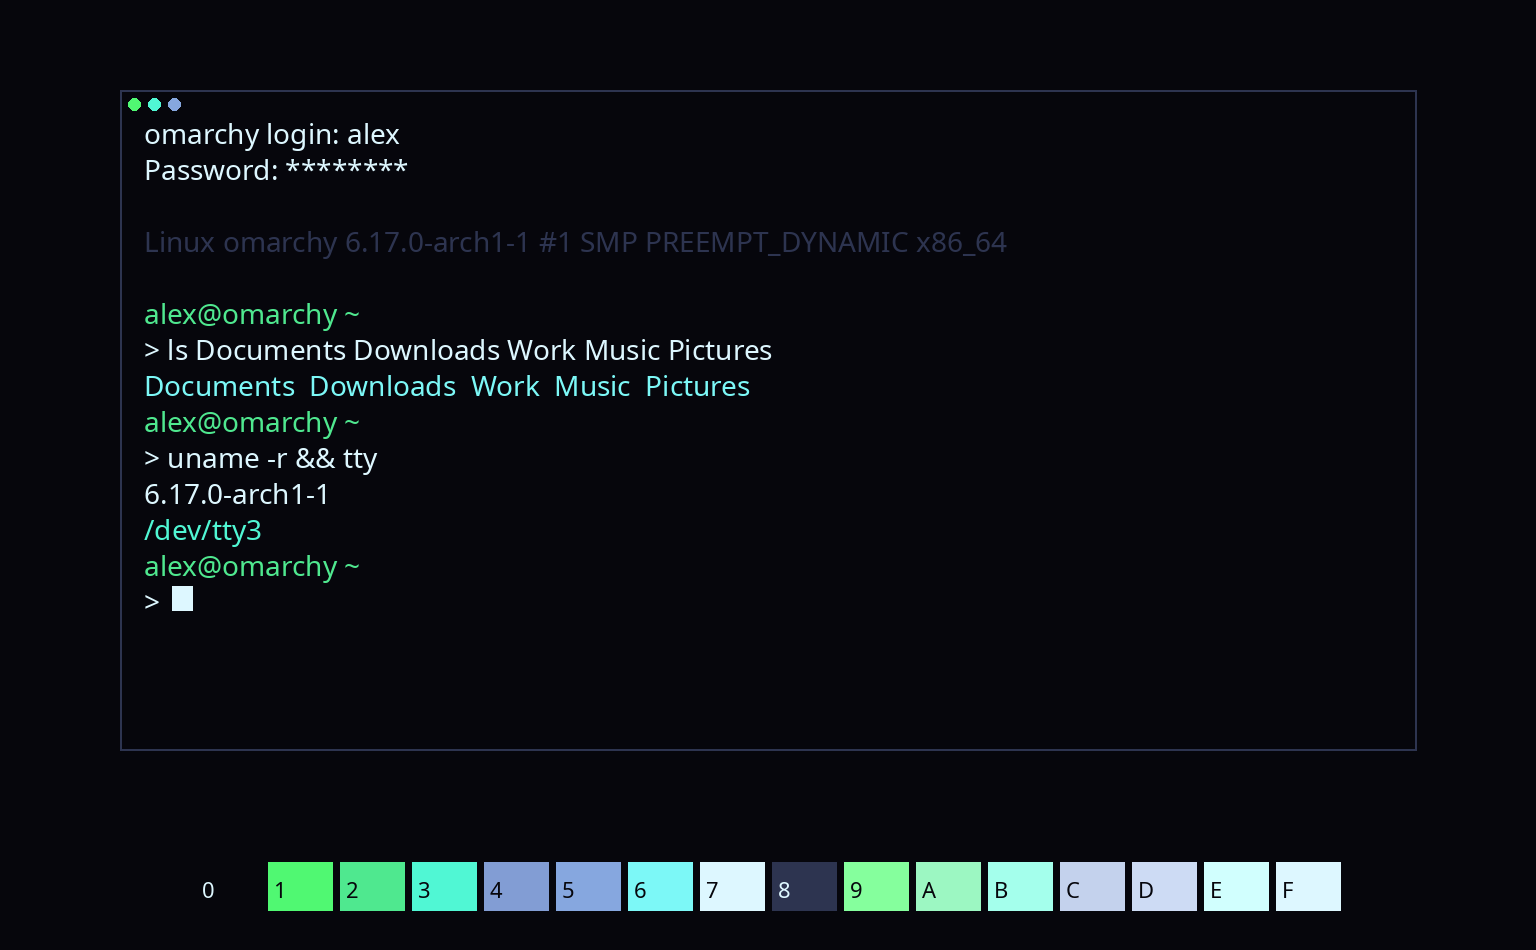
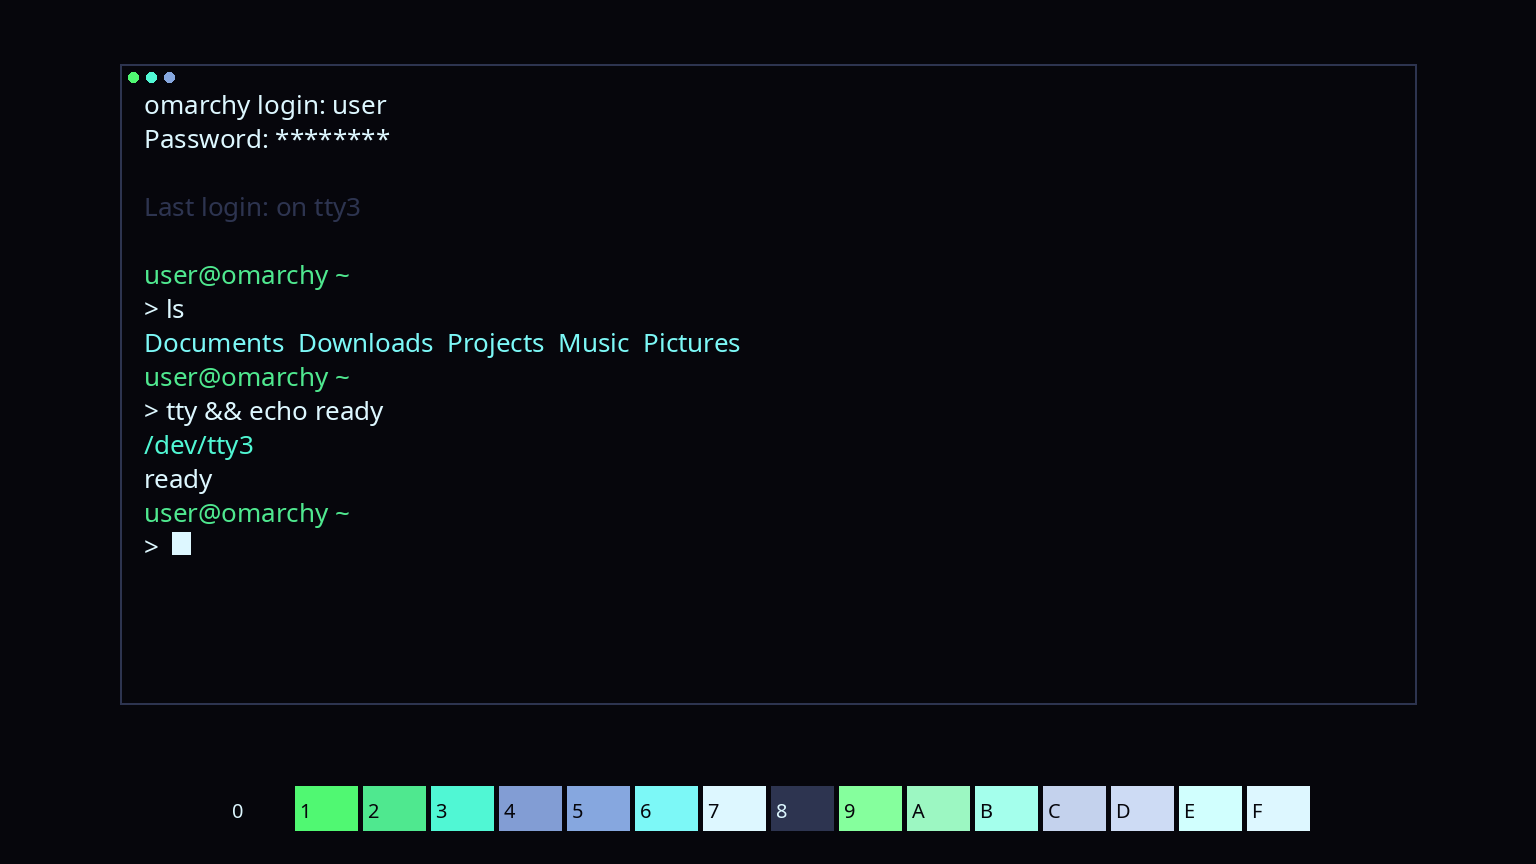
Fix carousel crop against menu-images thumbnails; generic VT session text.
Render 1536×864 (vipsthumbnail target) with ~8% side inset, bust stale
thumbs, and drop real usernames / kernel strings from mockups.

diff --git a/lib/omavt.py b/lib/omavt.py
@@ -507,9 +507,13 @@ def rebuild_limine() -> None:
         raise RuntimeError(f"limine-update failed: {err}")
 
 
-# Style carousel selected tile is 768×475 (~1.62). Render at 2× so
-# PreserveAspectCrop does not shave left/right the way 16:9 sources do.
-MOCKUP_SIZE = (1536, 950)
+# omarchy-menu-images thumbnails every source to 1536×864 (16:9) with
+# smartcrop BEFORE the Style carousel shows it in a 768×475 tile. Matching
+# that size avoids a second crop; keep content inside ~8% side margins so
+# PreserveAspectCrop on the tile does not shave the subject.
+MOCKUP_SIZE = (1536, 864)
+# Horizontal inset that survives 16:9 → ~1.62 tile crop (plus a little slack).
+SAFE_X = 120
 
 
 def try_font(size: int) -> ImageFont.ImageFont:
@@ -536,12 +540,11 @@ def render_mockup(
 ) -> Path:
     """Fake /dev/tty session wearing the theme (or VGA default) palette.
 
-    Centered composition for the Style carousel — no edge chrome, no Plymouth
-    unlock assets. Theme name lives in the picker label, not the image.
+    Generic prompts only — no real username, home paths, or kernel strings.
+    Theme name lives in the picker label, not the image.
     """
     w, h = size
     ansi: list[tuple[int, int, int]] = palette["ansi"]
-    # Colour 0 is the console background under vt.color=0x07.
     bg = rgb_to_hex(ansi[0])
     fg = rgb_to_hex(ansi[7])
     bright = rgb_to_hex(ansi[15])
@@ -555,79 +558,73 @@ def render_mockup(
     img = Image.new("RGB", size, hex_to_rgb(bg))
     draw = ImageDraw.Draw(img)
 
-    mono = try_font(28)
-    mono_sm = try_font(22)
+    mono = try_font(26)
+    mono_sm = try_font(20)
 
-    # Centre a VT pane — everything important stays inside the tile safe zone.
-    pad_x, pad_y = 120, 90
-    term = (pad_x, pad_y, w - pad_x, h - pad_y - 110)
+    pad_x, pad_y = SAFE_X, 64
+    term = (pad_x, pad_y, w - pad_x, h - pad_y - 96)
     draw.rectangle(term, outline=hex_to_rgb(muted), width=2)
 
-    user = os.environ.get("USER", "alex")
-    host = "omarchy"
     lines: list[tuple[str, str]] = [
-        (f"{host} login: {user}", bright),
+        ("omarchy login: user", bright),
         ("Password: ********", fg),
         ("", fg),
-        (f"Linux {host} 6.17.0-arch1-1 #1 SMP PREEMPT_DYNAMIC x86_64", muted),
+        ("Last login: on tty3", muted),
         ("", fg),
-        (f"{user}@{host} ~", green),
-        ("> ls Documents Downloads Work Music Pictures", fg),
-        ("Documents  Downloads  Work  Music  Pictures", cyan),
-        (f"{user}@{host} ~", green),
-        ("> uname -r && tty", fg),
-        ("6.17.0-arch1-1", fg),
+        ("user@omarchy ~", green),
+        ("> ls", fg),
+        ("Documents  Downloads  Projects  Music  Pictures", cyan),
+        ("user@omarchy ~", green),
+        ("> tty && echo ready", fg),
         ("/dev/tty3", yellow),
-        (f"{user}@{host} ~", green),
+        ("ready", fg),
+        ("user@omarchy ~", green),
         ("> ", fg),
     ]
     if palette.get("is_default"):
         lines = [
-            (f"{host} login: {user}", bright),
+            ("omarchy login: user", bright),
             ("Password: ********", fg),
             ("", fg),
             ("stock VGA palette — Default removes omavt colours only", muted),
             ("", fg),
-            (f"{user}@{host} ~", green),
+            ("user@omarchy ~", green),
             ("> # pick a theme tile to append vt.default_*", fg),
-            (f"{user}@{host} ~", green),
+            ("user@omarchy ~", green),
             ("> ", fg),
         ]
 
-    # Clip session text inside the pane (TTY crop, not compositor zoom).
     term_w = term[2] - term[0] - 32
     term_h = term[3] - term[1] - 32
     layer = Image.new("RGB", (term_w, term_h), hex_to_rgb(bg))
     layer_draw = ImageDraw.Draw(layer)
-    line_h = 36
+    line_h = 34
     for index, (text, color) in enumerate(lines):
-        y = 8 + index * line_h
+        y = 6 + index * line_h
         if y + line_h > term_h:
             break
         layer_draw.text((8, y), text, font=mono, fill=hex_to_rgb(color))
-    # Blinking-ish block cursor after the last prompt
-    cursor_y = 8 + (len(lines) - 1) * line_h
+    cursor_y = 6 + (len(lines) - 1) * line_h
     if cursor_y + line_h <= term_h:
-        layer_draw.rectangle((8 + 28, cursor_y + 4, 8 + 48, cursor_y + 28), fill=hex_to_rgb(fg))
+        layer_draw.rectangle((8 + 28, cursor_y + 4, 8 + 46, cursor_y + 26), fill=hex_to_rgb(fg))
     img.paste(layer, (term[0] + 16, term[1] + 16))
 
-    # Centered 16-colour strip — palette is the point of this picker.
-    strip_y = h - 88
-    cell_w = 72
+    strip_y = h - 78
+    cell_w = 68
     total = cell_w * 16
     x0 = (w - total) // 2
+    # Keep strip inside SAFE_X even if cell math drifts.
+    x0 = max(SAFE_X, min(x0, w - SAFE_X - total))
     for index, rgb in enumerate(ansi):
         cx = x0 + index * cell_w
-        draw.rectangle((cx + 4, strip_y, cx + cell_w - 4, strip_y + 48), fill=rgb)
-        # Tiny index using contrasting ink
+        draw.rectangle((cx + 3, strip_y, cx + cell_w - 3, strip_y + 44), fill=rgb)
         ink = ansi[0] if (rgb[0] + rgb[1] + rgb[2]) > 380 else ansi[15]
-        draw.text((cx + 10, strip_y + 12), f"{index:X}", font=mono_sm, fill=ink)
+        draw.text((cx + 8, strip_y + 10), f"{index:X}", font=mono_sm, fill=ink)
 
-    # Corner accents so red/magenta/yellow read without edge labels.
     for color, box in (
-        (red, (term[0] + 8, term[1] + 8, term[0] + 20, term[1] + 20)),
-        (yellow, (term[0] + 28, term[1] + 8, term[0] + 40, term[1] + 20)),
-        (magenta, (term[0] + 48, term[1] + 8, term[0] + 60, term[1] + 20)),
+        (red, (term[0] + 8, term[1] + 8, term[0] + 18, term[1] + 18)),
+        (yellow, (term[0] + 26, term[1] + 8, term[0] + 36, term[1] + 18)),
+        (magenta, (term[0] + 44, term[1] + 8, term[0] + 54, term[1] + 18)),
     ):
         draw.ellipse(box, fill=hex_to_rgb(color))
 
@@ -646,6 +643,12 @@ def generate_preview(slug: str) -> Path:
 
 
 def bust_image_picker_cache(preview_root: Path) -> None:
+    """Invalidate omarchy-menu-images rows/thumbnails for our preview dir."""
+    try:
+        os.utime(preview_root, None)
+    except OSError:
+        pass
+
     cache_dir = Path(
         os.environ.get(
             "OMAVT_IMAGE_SELECTOR_CACHE",
@@ -654,6 +657,7 @@ def bust_image_picker_cache(preview_root: Path) -> None:
     )
     if not cache_dir.is_dir():
         return
+
     needle = str(preview_root.resolve())
     for path in cache_dir.iterdir():
         name = path.name
@@ -670,6 +674,26 @@ def bust_image_picker_cache(preview_root: Path) -> None:
             continue
         if needle in text or str(preview_root) in text:
             path.unlink(missing_ok=True)
+
+    index = cache_dir / "index.tsv"
+    if index.is_file():
+        try:
+            lines = index.read_text(encoding="utf-8", errors="ignore").splitlines()
+        except OSError:
+            lines = []
+        kept: list[str] = []
+        for line in lines:
+            parts = line.split("\t")
+            if parts and (needle in parts[0] or str(preview_root) in parts[0]):
+                if len(parts) >= 3:
+                    (cache_dir / f"{parts[2]}.jpg").unlink(missing_ok=True)
+                    (cache_dir / f"{parts[2]}.jpg.lock").unlink(missing_ok=True)
+                continue
+            kept.append(line)
+        try:
+            atomic_write(index, ("\n".join(kept) + ("\n" if kept else "")))
+        except OSError:
+            pass
 
 
 def generate_all_previews() -> list[Path]:

diff --git a/README.md b/README.md
@@ -36,7 +36,7 @@ third-party installs all work as long as they have a `colors.toml`.
 | Zero extra assets | No `preview-tty.png`, no per-theme VT files. Colours come from `colors.toml` alone. |
 | Extreme compatibility | Stock + user + foreign themes all appear in the picker automatically. |
 | Illustrative mockups | Centered fake `/dev/tty` session + 16-colour strip. **Not** a live VT screenshot and **not** WYSIWYG. |
-| Carousel-safe | Mockups match the Style tile aspect (~768×475) so edge text is not cropped. |
+| Carousel-safe | Mockups are 1536×864 (menu-images thumbnail size) with ~8% side inset so the 768×475 tile crop does not shave the subject. |
 | Slow pickers are OK | Warming ~20+ PNGs takes a moment; that is the cost of generating previews instead of bundling assets. |
 
 True WYSIWYG would need extra art (or a headless VT capture) per theme — that
